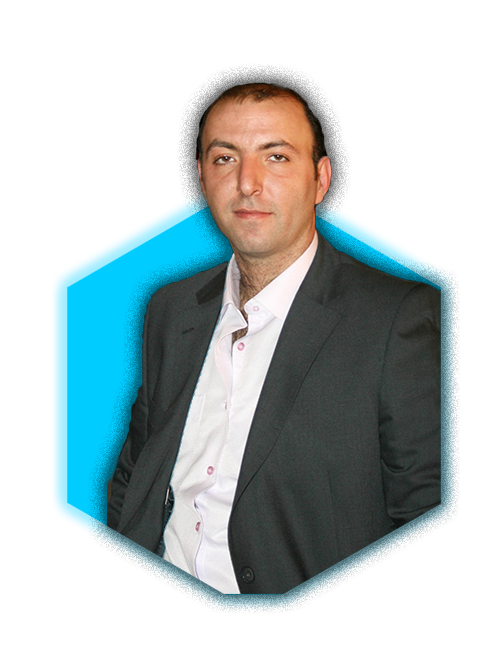
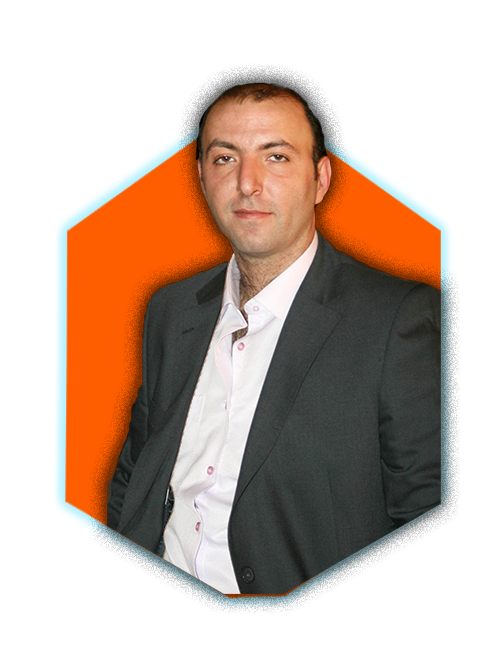
Changing colors

diff --git a/index.html b/index.html
@@ -24,7 +24,7 @@
             <a href="#about">About</a>
             <a href="#services">Services</a>
             <a href="#portfolio">Portfolio</a>
-            <a href="#contact">Contact</a>
+           <!-- <a href="#contact">Contact</a>-->
 
         </nav>
     </header>
@@ -35,7 +35,7 @@
             <h1>Hisham Al-rashini</h1>
             <h3>And I'm a <span class="multiple-text"></span></h3>
             <p>Creative Graphic Designer, film editing, Media Clips, 
-               Animation, Art Director (books, Newsletter & Magazines), 
+               Animation, <br>Art Director (books, Newsletter & Magazines), 
                Frontend Developer & Computer programing engineering background </p>
             <div class="social-media">
                 <a href="https://www.facebook.com/socialartmedia2" target="_blank"><i class='bx bxl-facebook' ></i></a>

diff --git a/css/style.css b/css/style.css
@@ -11,7 +11,7 @@
     --bg-color: #1f242d;
     --second-bg-color: #323946;
     --text-color: #fff;
-    --main-color: #0ef;
+    --main-color: rgb(255, 94, 0);
 }
 html {
     font-size: 62.5%;
